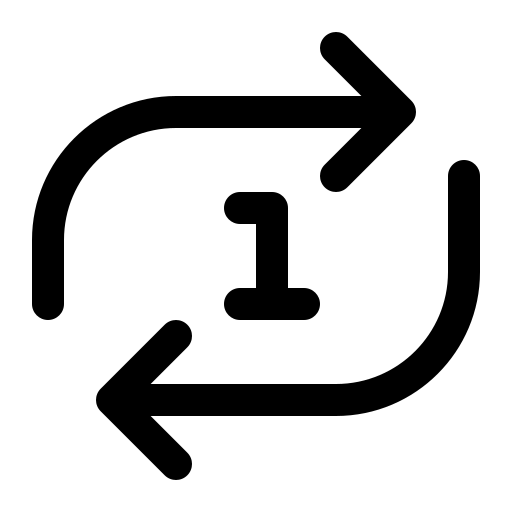
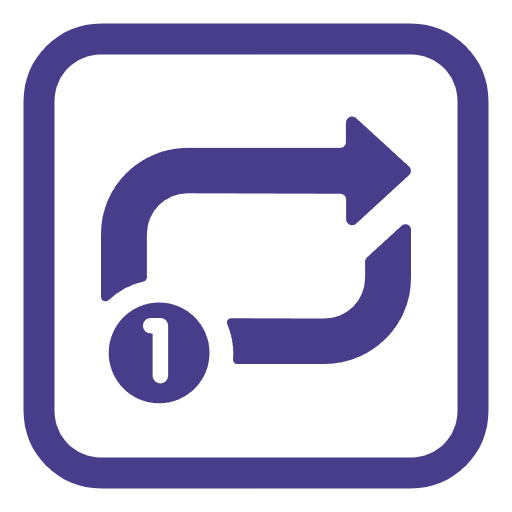
Release Bug Fixes; - Fixed issues with app crashing after song ends - fixed an issue where repeat btn were not visible at all etc...

diff --git a/Dimmer/Views/Desktop/CustomViews/MediaPlaybackControlsView.xaml b/Dimmer/Views/Desktop/CustomViews/MediaPlaybackControlsView.xaml
@@ -88,15 +88,14 @@
                     HorizontalOptions="Center" Padding="10,0">
                 <Border>
                     <ImageButton Command="{Binding ToggleRepeatModeCommand}"
-                                 ToolTipProperties.Text="ToggleRepeat">
+                                 ToolTipProperties.Text="ToggleRepeat"
+                                 Source="{Binding RepeatModeImage}">
                         <ImageButton.CommandParameter>
                             <x:Boolean>True</x:Boolean>
                         </ImageButton.CommandParameter>
-                        <ImageButton.Source>
-                            <FontImageSource FontFamily="MaterialRounded" Glyph="{Binding RepeatModeImage}"/>
-                        </ImageButton.Source>
                     </ImageButton>
                 </Border>
+
 
                 <Border >
                     <ImageButton Command="{Binding PlayPreviousSongCommand}" Source="backwardskipdark.png" 

diff --git a/Dimmer/Views/Desktop/SingleSongShellPageD.xaml b/Dimmer/Views/Desktop/SingleSongShellPageD.xaml
@@ -247,7 +247,7 @@ Margin="5,5" RowDefinitions="Auto, Auto,*">
                                     <HorizontalStackLayout>
 
                                     <Button Text="Search Lyrics" x:Name="SearchLyricsOnLyrLib"
-            Clicked="SearchLyricsOnLyrLib_Clicked">
+                                            Clicked="SearchLyricsOnLyrLib_Clicked">
                                         <Button.CommandParameter>
                                             <x:Boolean>True</x:Boolean>
                                         </Button.CommandParameter>

diff --git a/Dimmer/ViewModels/HomePageVM.cs b/Dimmer/ViewModels/HomePageVM.cs
@@ -208,6 +208,9 @@ public partial class HomePageVM : ObservableObject
 
     void DoRefreshDependingOnPage()
     {
+        LyricsSearchSongTitle = SelectedSongToOpenBtmSheet.Title;
+        LyricsSearchArtistName = SelectedSongToOpenBtmSheet.ArtistName;
+        LyricsSearchAlbumName = SelectedSongToOpenBtmSheet.AlbumName;
         LastFifteenPlayedSongs = GetLastXPlayedSongs(DisplayedSongs).ToObservableCollection();
         switch (CurrentPage)
         {
@@ -215,9 +218,6 @@ public partial class HomePageVM : ObservableObject
                 
                 break;
             case PageEnum.NowPlayingPage:
-                LyricsSearchSongTitle ??= SelectedSongToOpenBtmSheet.Title;
-                LyricsSearchArtistName ??= SelectedSongToOpenBtmSheet.ArtistName;
-                LyricsSearchAlbumName ??= SelectedSongToOpenBtmSheet.AlbumName;
                 LastfmTracks.Clear();
                 CalculateGeneralSongStatistics(TemporarilyPickedSong.LocalDeviceId!);
                 switch (CurrentViewIndex)
@@ -239,7 +239,7 @@ public partial class HomePageVM : ObservableObject
             case PageEnum.PlaylistsPage:
                 break;
             case PageEnum.FullStatsPage:
-                ShowGeneralTopXSongs();
+                //ShowGeneralTopXSongs();
                 break;
             case PageEnum.AllAlbumsPage:
                 break;
@@ -467,13 +467,14 @@ public partial class HomePageVM : ObservableObject
 
 
     public List<SongModelView> filteredSongs = new();
-    bool isPreviewing = false;
+    [ObservableProperty]
+    public partial bool IsPreviewing { get; set; } = false;
     public async Task PlaySong(SongModelView SelectedSong, bool isPrevieww=false)
     {
         //_ = UpdateRelatedPlayingData(SelectedSong!);//always check if we already have the song's artist and other data loaded
         if (isPrevieww)
         {
-            isPreviewing = isPrevieww;
+            IsPreviewing = isPrevieww;
             CurrentPage = PageEnum.FullStatsPage;  
             CurrentQueue = 0;
             await PlayBackService.PlaySongAsync(SelectedSong, isPreview: true);
@@ -536,7 +537,7 @@ public partial class HomePageVM : ObservableObject
     [RelayCommand]
     public async Task ResumeSong()
     {
-        if (isPreviewing)
+        if (IsPreviewing)
         {
             return;
         }
@@ -619,14 +620,14 @@ public partial class HomePageVM : ObservableObject
         switch (CurrentRepeatMode)
         {
             case 1:
-                RepeatModeImage = MaterialRounded.Repeat_on;
+                RepeatModeImage = "repeatoffdark.png";
                 break;
             case 2:
             case 4:
-                RepeatModeImage = MaterialRounded.Repeat_one_on;
+                RepeatModeImage = "repeaton.png";
                 break;
             case 0:
-                RepeatModeImage = MaterialRounded.Repeat;
+                RepeatModeImage = "repeatone.png";
                 break;
             default:
                 break;
@@ -1020,11 +1021,11 @@ public partial class HomePageVM : ObservableObject
     #endregion
 
     [ObservableProperty]
-    public partial string? LyricsSearchSongTitle { get; set; }
+    public partial string LyricsSearchSongTitle { get; set; } = string.Empty;
     [ObservableProperty]
-    public partial string? LyricsSearchArtistName {get;set;}
+    public partial string LyricsSearchArtistName {get;set;} = string.Empty;
     [ObservableProperty]
-    public partial string? LyricsSearchAlbumName {get;set;}
+    public partial string LyricsSearchAlbumName {get;set;}=string.Empty;
     [ObservableProperty]
     public partial bool UseManualSearch { get; set; }
 

diff --git a/Dimmer/ViewModels/SingleSongShellPage/SongShellPage.HomePageVM.cs b/Dimmer/ViewModels/SingleSongShellPage/SongShellPage.HomePageVM.cs
@@ -169,8 +169,9 @@ public partial class HomePageVM : ObservableObject
         {
             var fSong = DisplayedSongs.FirstOrDefault(x => x.LocalDeviceId == fDimm.SongId);
             FirstDimmSong= fSong;
-            DateOfFirstDimm = fSong.PlayData.OrderBy(x=>x.DateFinished).FirstOrDefault(x=>x.PlayType == 3)!.DateFinished;
-            DaysSinceFirstDimm = (DateTime.Now.Date - DateOfFirstDimm).Days;
+            var e= fSong.PlayData.OrderBy(x=>x.DateFinished).FirstOrDefault(x=>x.PlayType == 3);
+            DateOfFirstDimm = e.DateFinished.ToLongDateString();
+            DaysSinceFirstDimm = (DateTime.Now.Date - e.DateFinished).Days;
         }
         TotalNumberStartedDimms = AllPlayDataLinks.Where(p => p.PlayType == 0).Count();
         TotalNumberCompletedDimms = AllPlayDataLinks.Where(p => p.PlayType == 3).Count();
@@ -225,19 +226,24 @@ public partial class HomePageVM : ObservableObject
         SongModelView singleSong= SongsMgtService.AllSongs.FirstOrDefault(x => x.LocalDeviceId == songId)!;
         
         var lastSongLink = singleSong.PlayData.Where(x => x.DateFinished != DateTime.MinValue).LastOrDefault();
+        DateOfFirstDimm = "None Yet";
+        DaysSinceFirstDimm = 0;
+        //DateOfFirstDimm = "None Yet";
         if (singleSong.PlayData.LastOrDefault() != null)
         {
             var w= singleSong.PlayData.LastOrDefault(x=>x.PlayType==3);
             if (w is not null)
             {
-                DateOfFirstDimm = w.DateFinished;
+                DateOfFirstDimm = w.DateFinished.ToLongDateString();
+                DaysSinceFirstDimm = (DateTime.Now.Date - w.DateFinished).Days;
             }
         }
         if (lastSongLink is not null)
         {
-            DateOfLastDimm = lastSongLink.DateFinished;
+            DateOfLastDimm = lastSongLink.DateFinished.ToLongDateString();
+            
         }
-        DaysSinceFirstDimm = (DateTime.Now.Date - DateOfFirstDimm).Days;       
+        
         
         SpecificSongPlaysStarted = singleSong.PlayData.Where(x => x.PlayType == 0).ToList();
         SpecificSongPlaysPaused = singleSong.PlayData.Where(x => x.PlayType == 1).ToList();
@@ -993,7 +999,7 @@ public partial class HomePageVM : ObservableObject
     public partial int DaysSinceFirstDimm { get; set; }
 
     [ObservableProperty]
-    public partial DateTime DateOfFirstDimm { get; set; }
+    public partial string DateOfFirstDimm { get; set; }
 
     [ObservableProperty]
     public partial SongModelView FirstDimmSong { get; set; } = new();
@@ -1003,7 +1009,7 @@ public partial class HomePageVM : ObservableObject
     public partial string FirstDimmAlbum { get; set; } = string.Empty;
 
     [ObservableProperty]
-    public partial DateTime DateOfLastDimm { get; set; }
+    public partial string DateOfLastDimm { get; set; }
     
 
     [ObservableProperty]

diff --git a/Dimmer/Views/Desktop/SingleSongShellPageD.xaml.cs b/Dimmer/Views/Desktop/SingleSongShellPageD.xaml.cs
@@ -21,7 +21,7 @@ public partial class SingleSongShellPageD : ContentPage
             return;
         }
         ViewModel.CurrentPage = PageEnum.NowPlayingPage;
-        DeviceDisplay.Current.KeepScreenOn = true;
+        
         ViewModel.AssignSyncLyricsCV(LyricsColView);
         switch (ViewModel.TemporarilyPickedSong.IsFavorite)
         {
@@ -35,13 +35,21 @@ public partial class SingleSongShellPageD : ContentPage
             default:
                 break;
         }
+
+
+        if (LyricsColView.SelectedItem is not null)
+        {
+            LyricsColView.ScrollTo(LyricsColView.SelectedItem, null, ScrollToPosition.Center, true);
+        }
     }
 
     protected override void OnDisappearing()
     {
         base.OnDisappearing();
-        ViewModel.CurrentViewIndex = 0;
-        
+        StatsTabs.SelectedItem = SyncLyricsChip;
+        ViewModel.LyricsSearchAlbumName = string.Empty;
+        ViewModel.LyricsSearchArtistName= string.Empty;
+        ViewModel.LyricsSearchSongTitle= string.Empty;
     }
 
     private void TabView_SelectionChanged(object sender, Syncfusion.Maui.Toolkit.TabView.TabSelectionChangedEventArgs e)
@@ -213,10 +221,13 @@ public partial class SingleSongShellPageD : ContentPage
     {
         try
         {
-            if (LyricsColView.IsLoaded && LyricsColView.ItemsSource is not null)
+            if (LyricsColView.ItemsSource is not null)
             {
-                LyricsColView.ScrollTo(LyricsColView.SelectedItem, null, ScrollToPosition.Center, true);
-            }
+                if (LyricsColView.SelectedItem is not null )
+                {
+                    LyricsColView.ScrollTo(LyricsColView.SelectedItem, null, ScrollToPosition.Center, true);
+                }
+            }            
          
         }
         catch (Exception ex)

diff --git a/Dimmer/ViewModels/SingleSongShellPage/NowPlayingPage.HomePageVM.cs b/Dimmer/ViewModels/SingleSongShellPage/NowPlayingPage.HomePageVM.cs
@@ -39,9 +39,9 @@ public partial class HomePageVM
     public partial bool IsFetching { get; set; } = false;
     public async Task<bool> FetchLyrics(bool fromUI = false)
     {
-        LyricsSearchSongTitle ??= SelectedSongToOpenBtmSheet.Title;
-        LyricsSearchArtistName ??= SelectedSongToOpenBtmSheet.ArtistName;
-        LyricsSearchAlbumName ??= SelectedSongToOpenBtmSheet.AlbumName;
+        LyricsSearchSongTitle = SelectedSongToOpenBtmSheet.Title;
+        LyricsSearchArtistName= SelectedSongToOpenBtmSheet.ArtistName;
+        LyricsSearchAlbumName =SelectedSongToOpenBtmSheet.AlbumName;
 
         List<string> manualSearchFields =
         [

diff --git a/Dimmer/Utilities/OtherUtils/LastFMUtils.cs b/Dimmer/Utilities/OtherUtils/LastFMUtils.cs
@@ -85,7 +85,7 @@ public class LastFMUtils
             return false;
         }
 
-        await clientLastFM.AuthenticateAsync(lastFMUname, lastFMPass);
+        //await clientLastFM.AuthenticateAsync(lastFMUname, lastFMPass);
         if (clientLastFM.Session.Authenticated && !isSilent)
         {
             await Shell.Current.DisplayAlert(lastFMUname, "Welcome Back !", "OK" );

diff --git a/Dimmer/Views/Desktop/FullStatsPageD.xaml.cs b/Dimmer/Views/Desktop/FullStatsPageD.xaml.cs
@@ -181,6 +181,11 @@ public partial class FullStatsPageD : ContentPage
             await ViewModel.PlaySong(song, true);
         }        
     }
+    protected override void OnDisappearing()
+    {
+        base.OnDisappearing();
+        ViewModel.IsPreviewing=false;
+    }
 
 
     public bool ClickToPreview { get; set; } = true;
